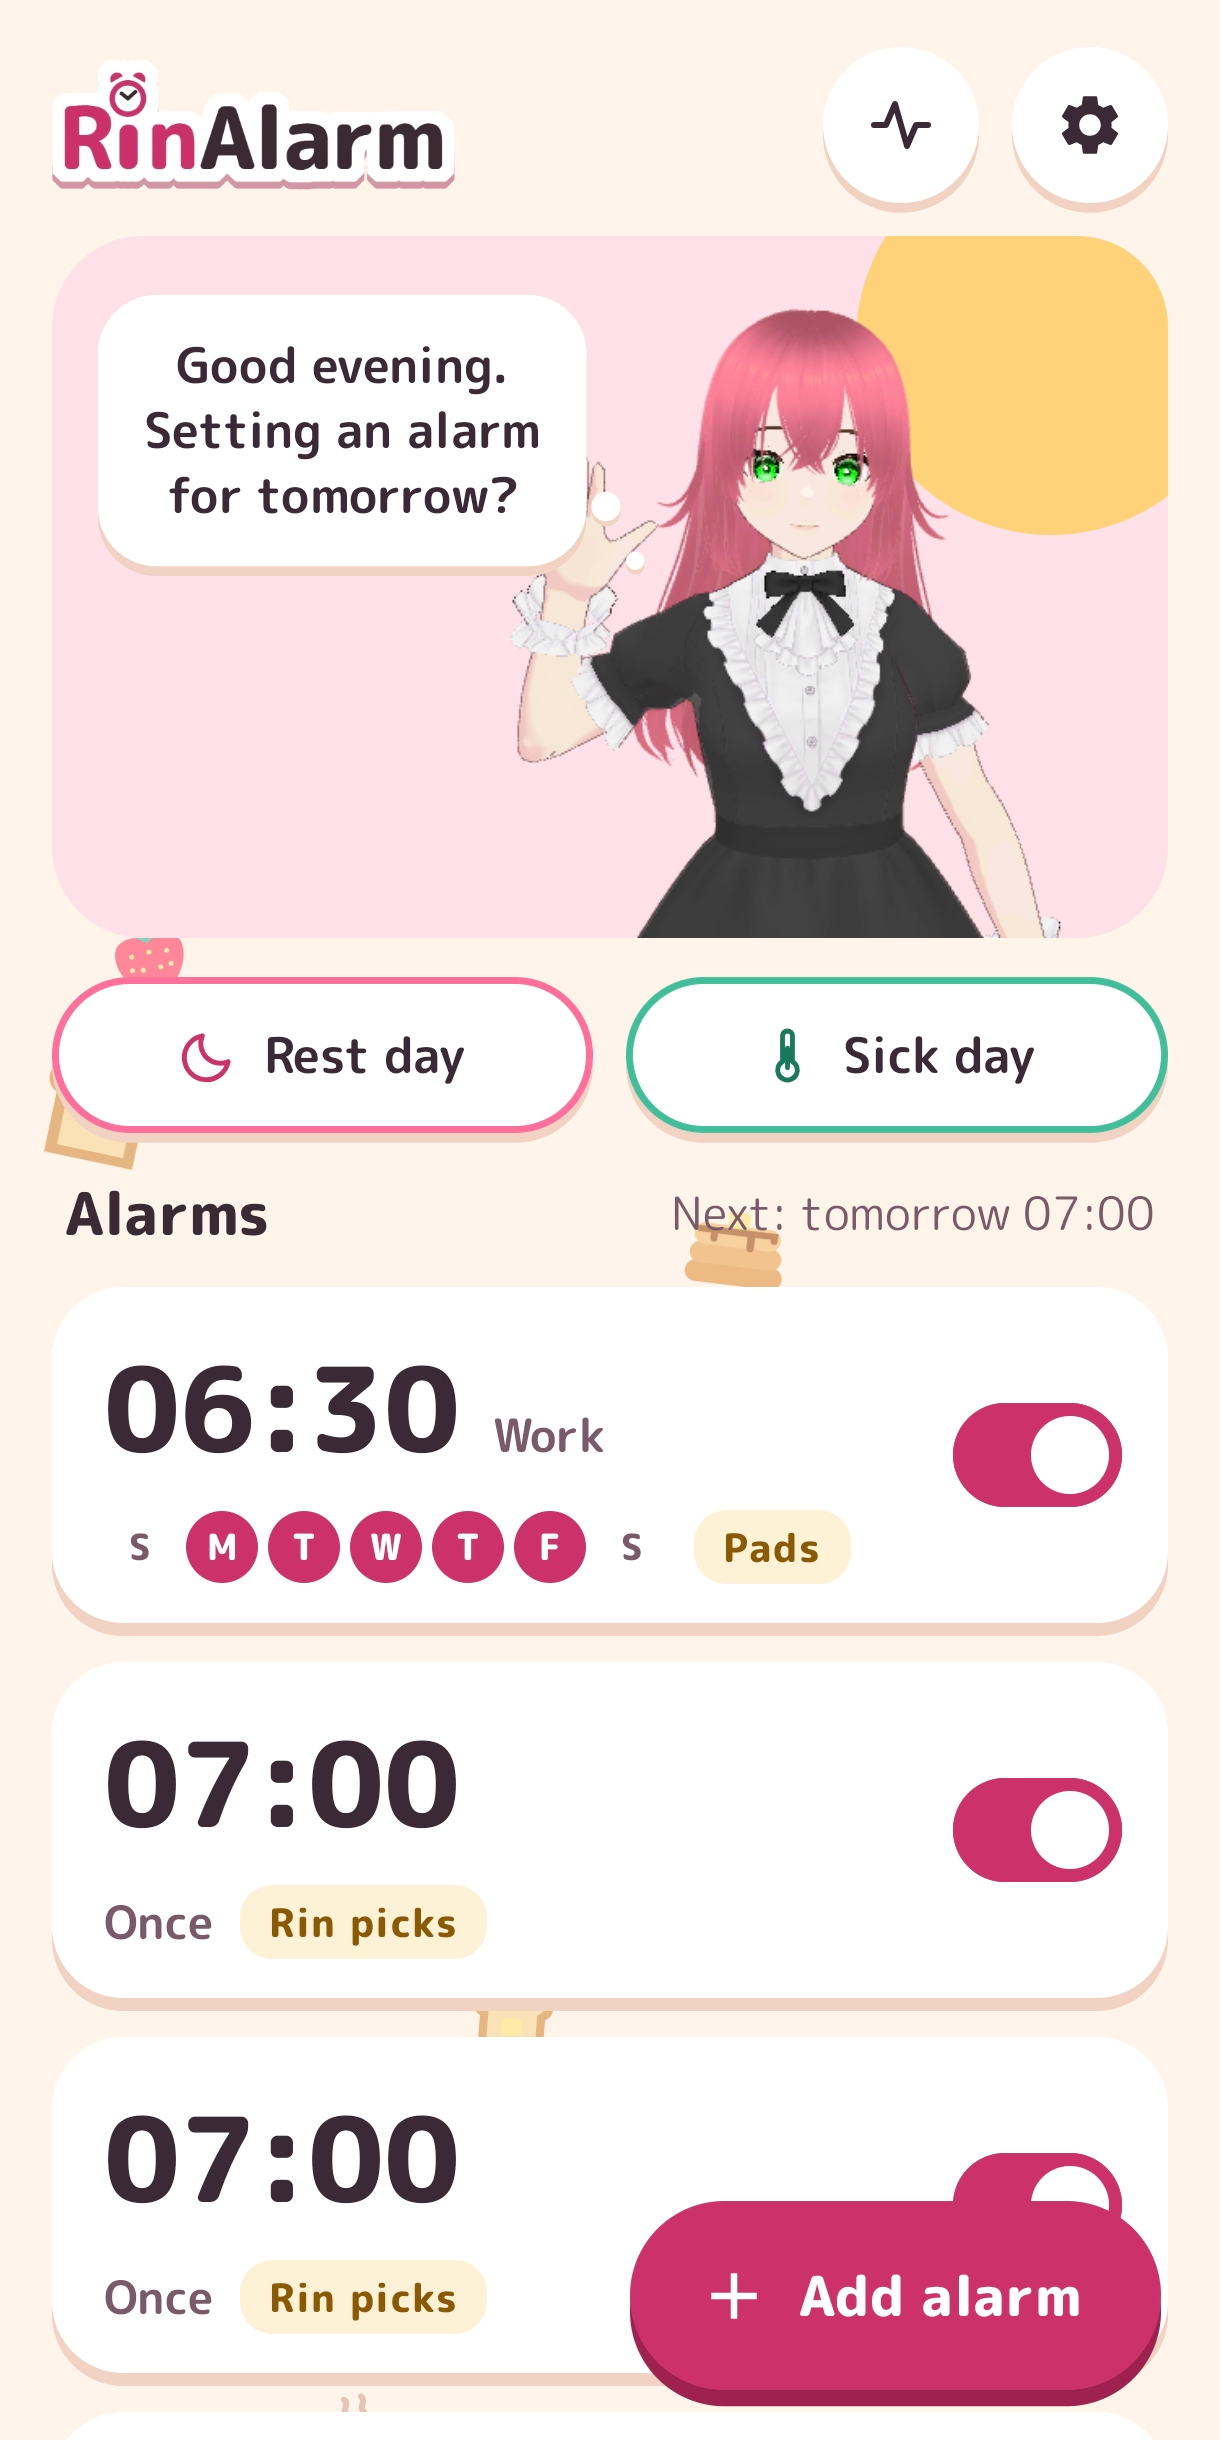
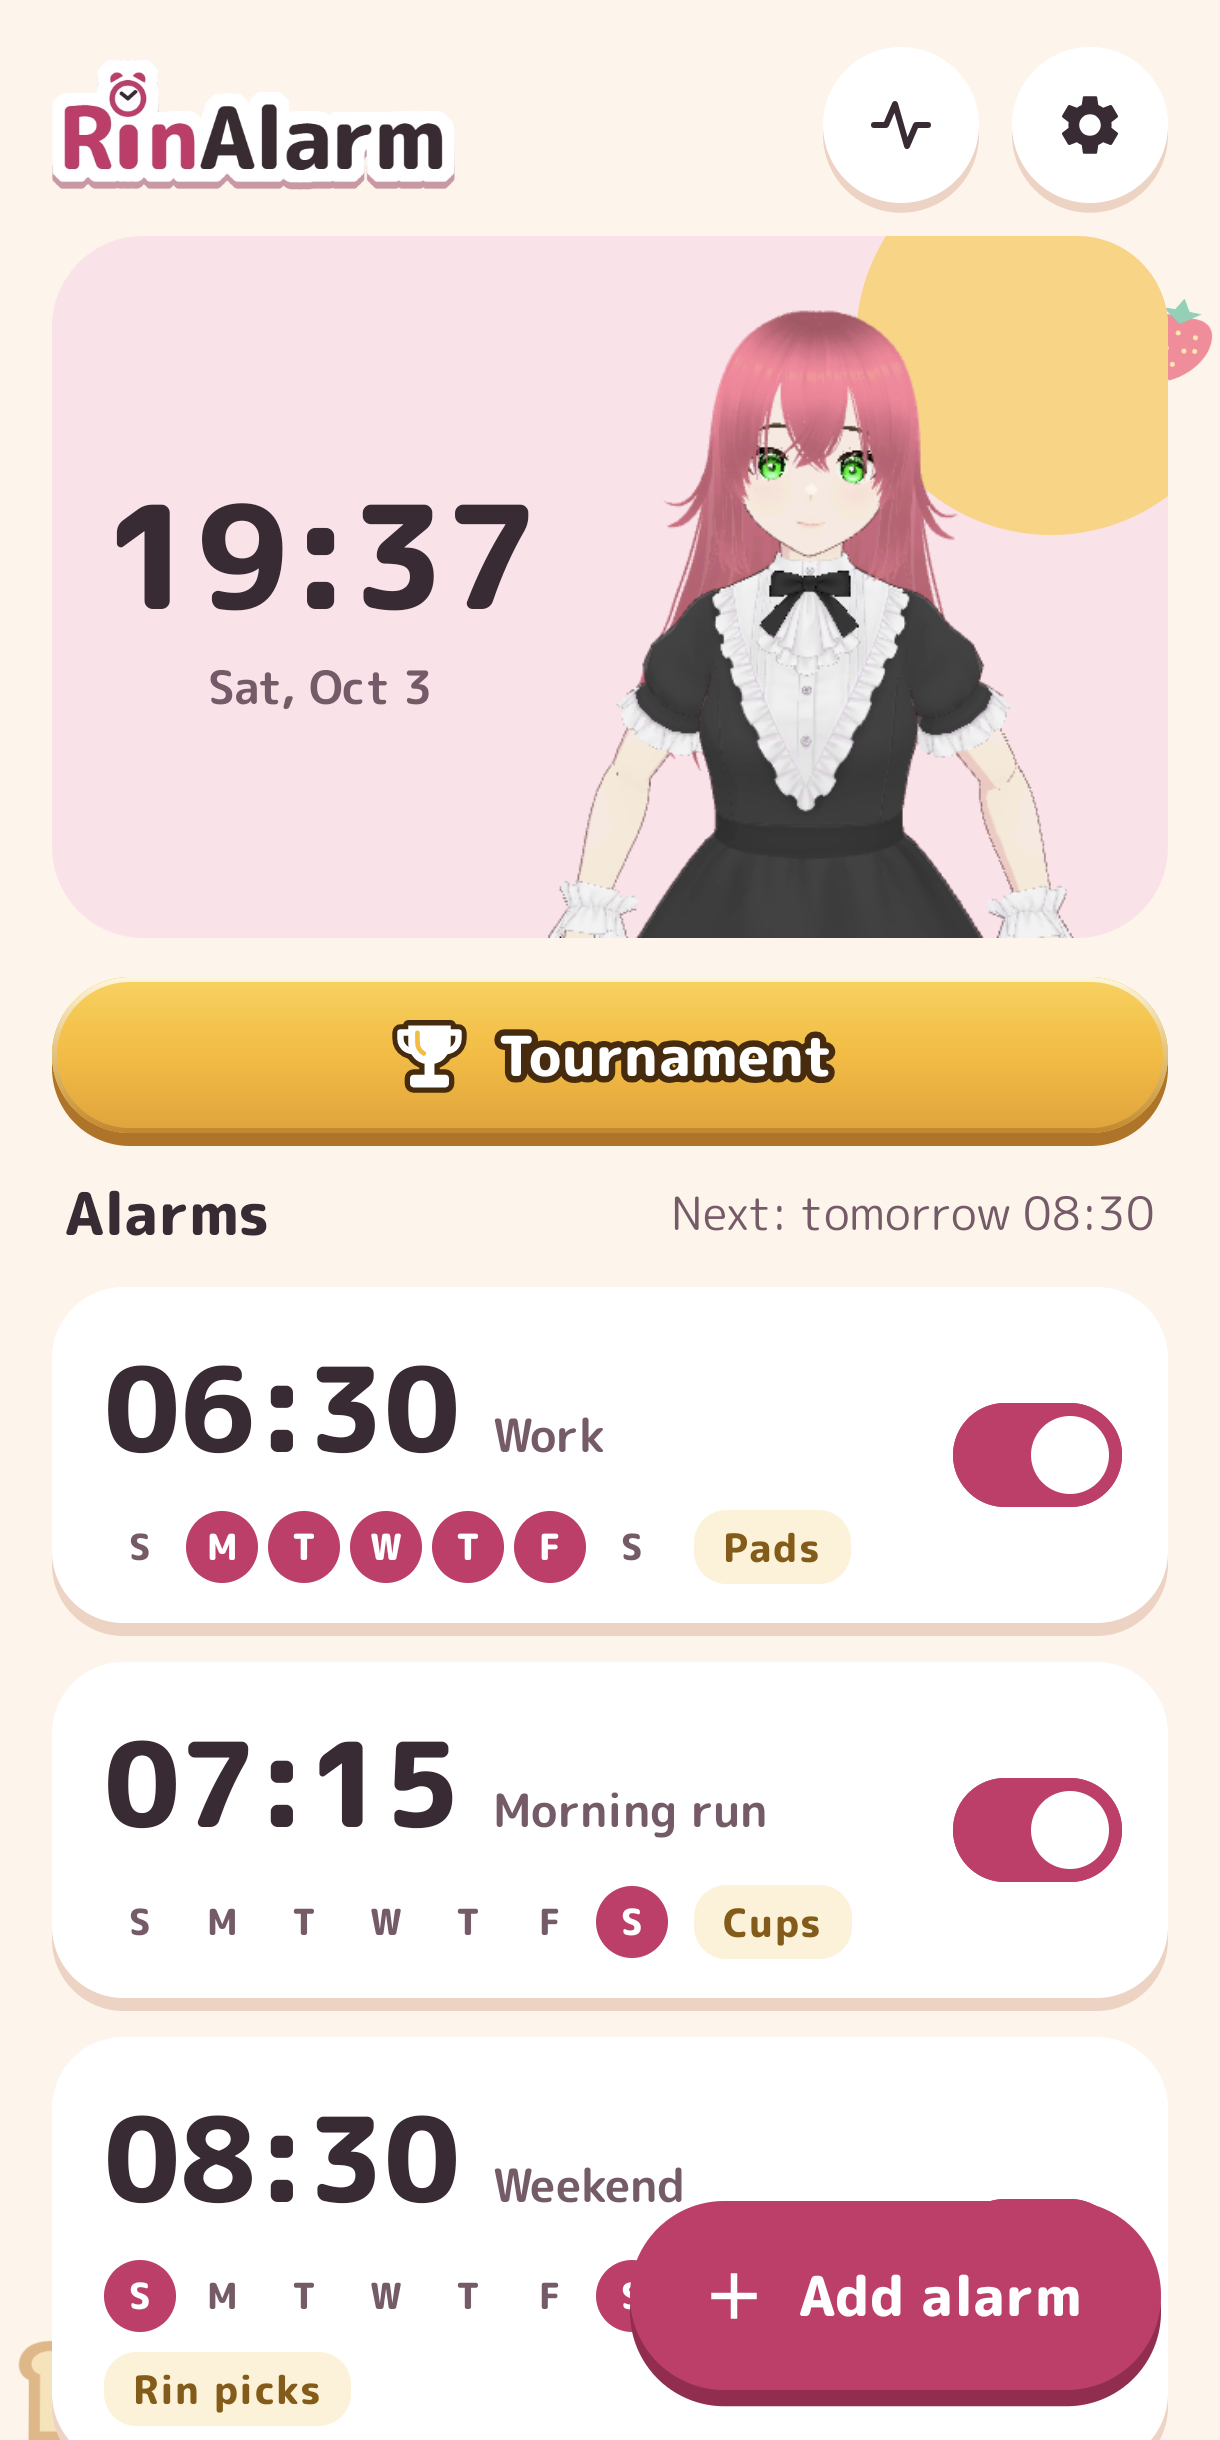
6.11: 8 store screenshots retaken on the final UI (games at Hard, editor level card, tournament page)

diff --git a/docs/STATUS.md b/docs/STATUS.md
@@ -1,9 +1,10 @@
-# STATUS — 2026-10-03 (**6.10 done**; next **6.11 store screenshots**, then Play Console · 6.9 done · Phase G done (D33) · UI/UX done · Rin's own model in · Phase 6 left: limited distribution · Phase 8 after)
+# STATUS — 2026-10-03 (**6.11 done**; next **Play Console** (listing, screenshots, App content, closed test) · 6.9/6.10 done · Phase G done (D33) · UI/UX done · Rin's own model in · Phase 6 left: limited distribution · Phase 8 after)
 
 Phase 1: tasks done; **14-night run** pending (Diagnostics card, Strict daily; set one alarm repeating every day — none enabled). Ends at 14/14 + green CI (needs the remote; 0.4 accounts on the user).
 Phase 2 **done 2026-09-28** on the VRoid sample. **Your model still pending** (`rin.model=<path>` in local.properties; ❓ edits in `docs/character/character-sheet.md`); when it lands: `./gradlew checkGestures -PwriteBody` → build → `./gradlew checkGestures` → `tools/character/phase-exit.sh`, re-check hands (`npm run dev`), gaze (`aimCamera`; the cup table now uses `CupScene.attend`) and the pads hand (thumb).
-## ▶ Resume here (docs/plan/phase-6.md: 6.11 screenshots, then Play Console)
-- **Next: 6.11:** 8 store screenshots on the final UI (home day, pads, cups, repeat, editor, tournament start, leaderboard with real rows only, home night); the user taps, Claude screencaps (plan in phase-6.md). **Then Play Console:** re-paste listing.md (en + th, tournament section expanded), Data safety/content rating from app-content.md, new screenshots.
+## ▶ Resume here (Play Console: docs/store/console-steps.md, then 6.6 PEPK + AAB, 6.7 testers)
+- **Next: Play Console** (with the user, Claude in Chrome only with their approval per submit): replace all store screenshots with `docs/store/graphics/screens/1-8`, re-paste listing.md en + th (tournament section, "works offline"), App content from app-content.md (Data safety: collects yes / shares no; content rating: users interact yes), then the rest of console-steps.md (Store settings, closed test, PEPK + AAB upload with a fresh `bundleRelease`).
+- **6.11 done 2026-10-03:** 8 screenshots retaken on the final UI (debug build, real rings via `DebugAlarmReceiver`, Hard level), the user approved; leaderboard left out (one row). **The 14T still has the 3 demo alarms switched ON** (06:30 Work weekdays, 07:15 Morning run Sat, 08:30 Weekend Sun) unless the user turned them off.
 - **6.10 done 2026-10-03 (02d0416), the user checked it on the 14T:** editor walkthrough `GuideStep.LEVEL` (Level card + Rin scolds, only with a game); tournament start page walkthrough `StartGuideStep` GAME → YOU → ONLINE → RULES ("Got it"), flag `AppSettings.tournamentGuidePending` (pref `tournament_guide_done`; Settings > Home tour sets it again), shared `GuideCard` (ui/editor/EditorGuide.kt), `RinPage(scrollState)`; Try the games level pills (`PracticeViewModel`, starts at the new-alarm level, changes no alarm; pads hint no longer says "3 colours"); home tour Tournament tip mentions the online board. 440 unit tests. The 14T has the debug build.
 - **6.9 done 2026-10-03 (cefaf0c, 0bd47fd; `docs/spikes/6.9-optimise.md`):** AAB 77.6 → **65.3 MB** (Vosk ships `graph/words.txt` extracted from Gr.fst instead of Gr.fst; model folder renamed `small-en-us-0.15-grammar`, old one deleted; the held-out 40 replayed on the 14T: same words and verdicts). Backdrop/wallpaper `decorClock()` 30 fps (home UI 121 → 60–79 fps, app CPU 114 → 90%). Cold start 185 ms. Background idle clean. Code review (f6abc84..HEAD): 2 leaderboard races fixed (`startPosting`, `updateEntry`). Rin's WebView rendering is the home cost (~1.5 cores while on screen; fps cap barely matters); idle slow-down would be a product choice, not done. Also d657df6: a picked university saves at once (Save is for the name only, the user's pick).
   - **Phone notes:** HyperOS blocks `adb shell input` and simpleperf needs `security.perf_harden` (security settings: don't change); atrace works. Held-out replay: let the app create `files/repeat-lab/heldout` first (a shell-made folder can't be written by the app), then push `tools/stt/recordings/heldout`, `am force-stop` before each `RepeatLabActivity --es replay heldout --es label <x> --ez decoys false`. The 14T has the **release** build now.

diff --git a/docs/plan/phase-6.md b/docs/plan/phase-6.md
@@ -13,7 +13,7 @@
 >   3. **หน้า Try the games (Settings):** **บั๊ก:** คำใบ้ "tap the same 3 colours" ผิดเมื่อระดับไม่ใช่ Easy (ฝึกจาก Settings ใช้ระดับของนาฬิกาใหม่ = Normal → รอบแรก 4 ปุ่ม) · แก้คำใบ้ไม่ระบุจำนวน + เพิ่มปุ่มเลือกระดับ Easy–Nightmare (ค่าเริ่ม = ระดับของนาฬิกาใหม่)
 >   4. **ทัวร์หน้าหลัก ขั้น Tournament:** เพิ่มว่ามีกระดานคะแนนออนไลน์แบบไม่บังคับ
 >   5. ทดสอบ: unit test ลำดับขั้น (`GuideStep.next`) + flag · คุณลองบน 14T (ติดตั้ง debug แล้วกด Settings > Home tour)
-> - **6.11 ภาพหน้าจอหน้าร้านชุดใหม่ (คุณเลือก 8 ภาพ 2026-10-03, ถ่ายหลัง 6.10):** home กลางวัน, pads, cups, repeat, editor, หน้าเริ่มทัวร์นาเมนต์, leaderboard (แถวจริงเท่านั้น ถ้าแทบว่างใช้ cups-pick แทน), home กลางคืน · คุณกดตามบน 14T (HyperOS กันการแตะจาก adb) ผมแคปด้วย screencap · ring ด้วย `DebugAlarmReceiver --es cmd add --ei sec 0 --es mission <game> --es level <lvl>` (ต้องอนุญาต full-screen ใหม่หลังติดตั้ง) · demo alarms `--es cmd demo` · ตัด status bar 104 px → 1220×2440 · แล้ววางใน Console พร้อมข้อความหน้าร้านใหม่
+> - **6.11 ✅ 2026-10-03 ถ่ายครบ 8 ภาพ (leaderboard มีแถวเดียว จึงใช้ cups found แทน) คุณอนุมัติแล้ว · ภาพหน้าจอหน้าร้านชุดใหม่ (คุณเลือก 8 ภาพ 2026-10-03, ถ่ายหลัง 6.10):** home กลางวัน, pads, cups, repeat, editor, หน้าเริ่มทัวร์นาเมนต์, leaderboard (แถวจริงเท่านั้น ถ้าแทบว่างใช้ cups-pick แทน), home กลางคืน · คุณกดตามบน 14T (HyperOS กันการแตะจาก adb) ผมแคปด้วย screencap · ring ด้วย `DebugAlarmReceiver --es cmd add --ei sec 0 --es mission <game> --es level <lvl>` (ต้องอนุญาต full-screen ใหม่หลังติดตั้ง) · demo alarms `--es cmd demo` · ตัด status bar 104 px → 1220×2440 · แล้ววางใน Console พร้อมข้อความหน้าร้านใหม่
 > - **6.8 feedback:** 7 วันแรกของ closed test = จบเฟส 6 · ครบ 14 วันต่อเนื่อง → ขอ production (เฟส 8)
 
 > อ่านประกอบเมื่อจำเป็น: [09-security-privacy.md](09-security-privacy.md) · [10-policy-legal.md](10-policy-legal.md)

diff --git a/docs/store/listing.md b/docs/store/listing.md
@@ -106,7 +106,7 @@ The app is in English. Meant for adults (18+).
 
 - **App icon ✅** `graphics/icon-512.png` (512×512, 32-bit): the user's picks, 2026-10-02: Rin's face (her own model's head-and-shoulders still) on the blush with the sun, and the **logo**: "RinAlarm", Rin pink + Alarm ink, outlined in white, no box, the i's dot an alarm clock. The launcher uses the same art (adaptive icon: blush background, `drawable-nodpi/ic_launcher_foreground.webp`, a one-colour clock for themed icons). The home screen's wordmark is the logo too (`logo_rinalarm.webp`). Drafts: `tools/character/icon-options.mjs`, `logo-options.mjs`.
 - **Feature graphic ✅** `graphics/feature-1024x500.png`: the night look (the user changed from day), Rin waist up, the logo, "Beat her at a quick game, and the alarm stops." (`tools/character/feature-graphic.mjs`).
-- Phone screenshots: 2–8, 16:9 or 9:16, 320–3840 px per side. Plan: home (day), editor, ring + pads, cup table, Repeat after Rin, home (night). From the 14T with `adb exec-out screencap` while the user navigates; status bar with no personal notifications.
+- **Phone screenshots ✅ (6.11, 2026-10-03)** `graphics/screens/1-8`: home day, home night, pads (Hard, 3×3, her hand on the lit pad), cups (Hard, 4 cups, ball in view), cups found, Repeat after Rin (mic turn), editor (game tiles + Level card + Rin scolds), tournament start page. Real rings from the debug hook on the 14T, cropped 104 px top / 168 px bottom to 1220×2440. The leaderboard was left out: it had one row.
 
 ## Contact details
 

diff --git a/docs/store/console-steps.md b/docs/store/console-steps.md
@@ -5,7 +5,7 @@ The user does these in Play Console (play.google.com/console, app "RinAlarm", pa
 ## 1. Store listing (Grow users → Store presence → Main store listing)
 
 1. App name `Rin: Anime Wake-up Alarm`, short and full description from listing.md (English).
-2. App icon `graphics/icon-512.png` · Feature graphic `graphics/feature-1024x500.png` · Phone screenshots `graphics/screens/*.png` in file order (1 home day, 2 home night, 3–6 games, 7 editor; 1220×2440, 2:1).
+2. App icon `graphics/icon-512.png` · Feature graphic `graphics/feature-1024x500.png` · Phone screenshots `graphics/screens/*.png` in file order (1 home day, 2 home night, 3 pads, 4 cups, 5 cups found, 6 repeat, 7 editor game + level, 8 tournament; 1220×2440, 2:1; retaken 2026-10-03 on the final UI, 6.11: replace all of the old ones in the Console).
 3. **Translations → Add → Thai:** the Thai texts from listing.md (the graphics stay the same).
 4. Store settings: category **Tools** (where alarm clocks sit), contact email (your choice), website https://earthkodyai.github.io/rin/.
 
